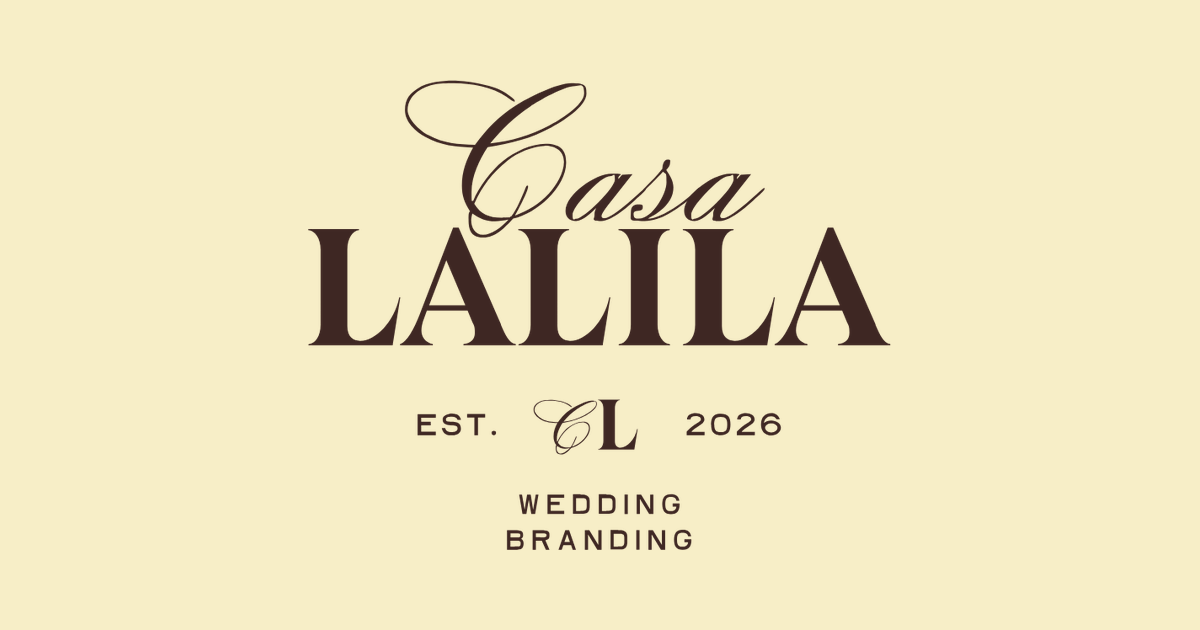
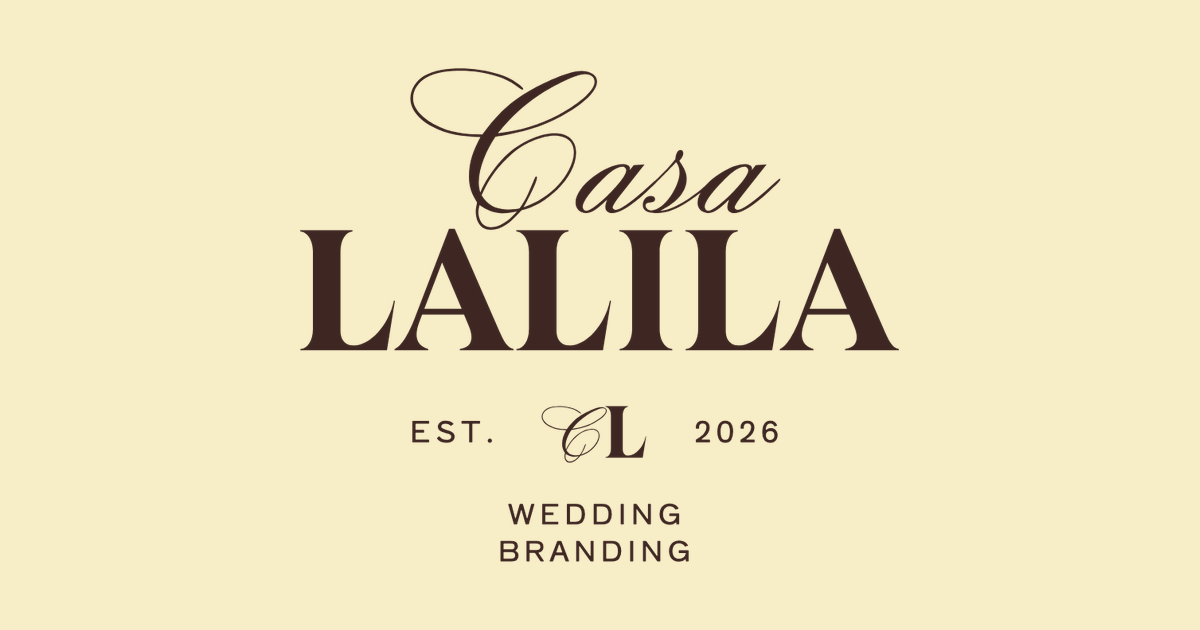
articulo 1

diff --git a/index.html b/index.html
@@ -39,7 +39,7 @@
   </div>
 </header>
 <div class="marca-fila">
-  <a class="logo" href="/" aria-label="Casa Lalila, wedding branding. Ir al inicio del blog"><img src="/img/logo-oscuro.png" width="760" height="613" alt="Casa Lalila, wedding branding"></a>
+  <a class="logo" href="/" aria-label="Casa Lalila, wedding branding. Ir al inicio del blog"><img src="/img/logo-oscuro.svg" width="760" height="628" alt="Casa Lalila, wedding branding"></a>
 </div>
 <main id="principal">
 <div class="contenedor portada">

diff --git a/404.html b/404.html
@@ -39,7 +39,7 @@
   </div>
 </header>
 <div class="marca-fila">
-  <a class="logo" href="/" aria-label="Casa Lalila, wedding branding. Ir al inicio del blog"><img src="/img/logo-oscuro.png" width="760" height="613" alt="Casa Lalila, wedding branding"></a>
+  <a class="logo" href="/" aria-label="Casa Lalila, wedding branding. Ir al inicio del blog"><img src="/img/logo-oscuro.svg" width="760" height="628" alt="Casa Lalila, wedding branding"></a>
 </div>
 <main id="principal">
 <div class="contenedor">

diff --git a/que-es-el-wedding-branding/index.html b/que-es-el-wedding-branding/index.html
@@ -41,7 +41,7 @@
   </div>
 </header>
 <div class="marca-fila">
-  <a class="logo" href="/" aria-label="Casa Lalila, wedding branding. Ir al inicio del blog"><img src="/img/logo-oscuro.png" width="760" height="613" alt="Casa Lalila, wedding branding"></a>
+  <a class="logo" href="/" aria-label="Casa Lalila, wedding branding. Ir al inicio del blog"><img src="/img/logo-oscuro.svg" width="760" height="628" alt="Casa Lalila, wedding branding"></a>
 </div>
 <main id="principal">
 <div class="contenedor">
